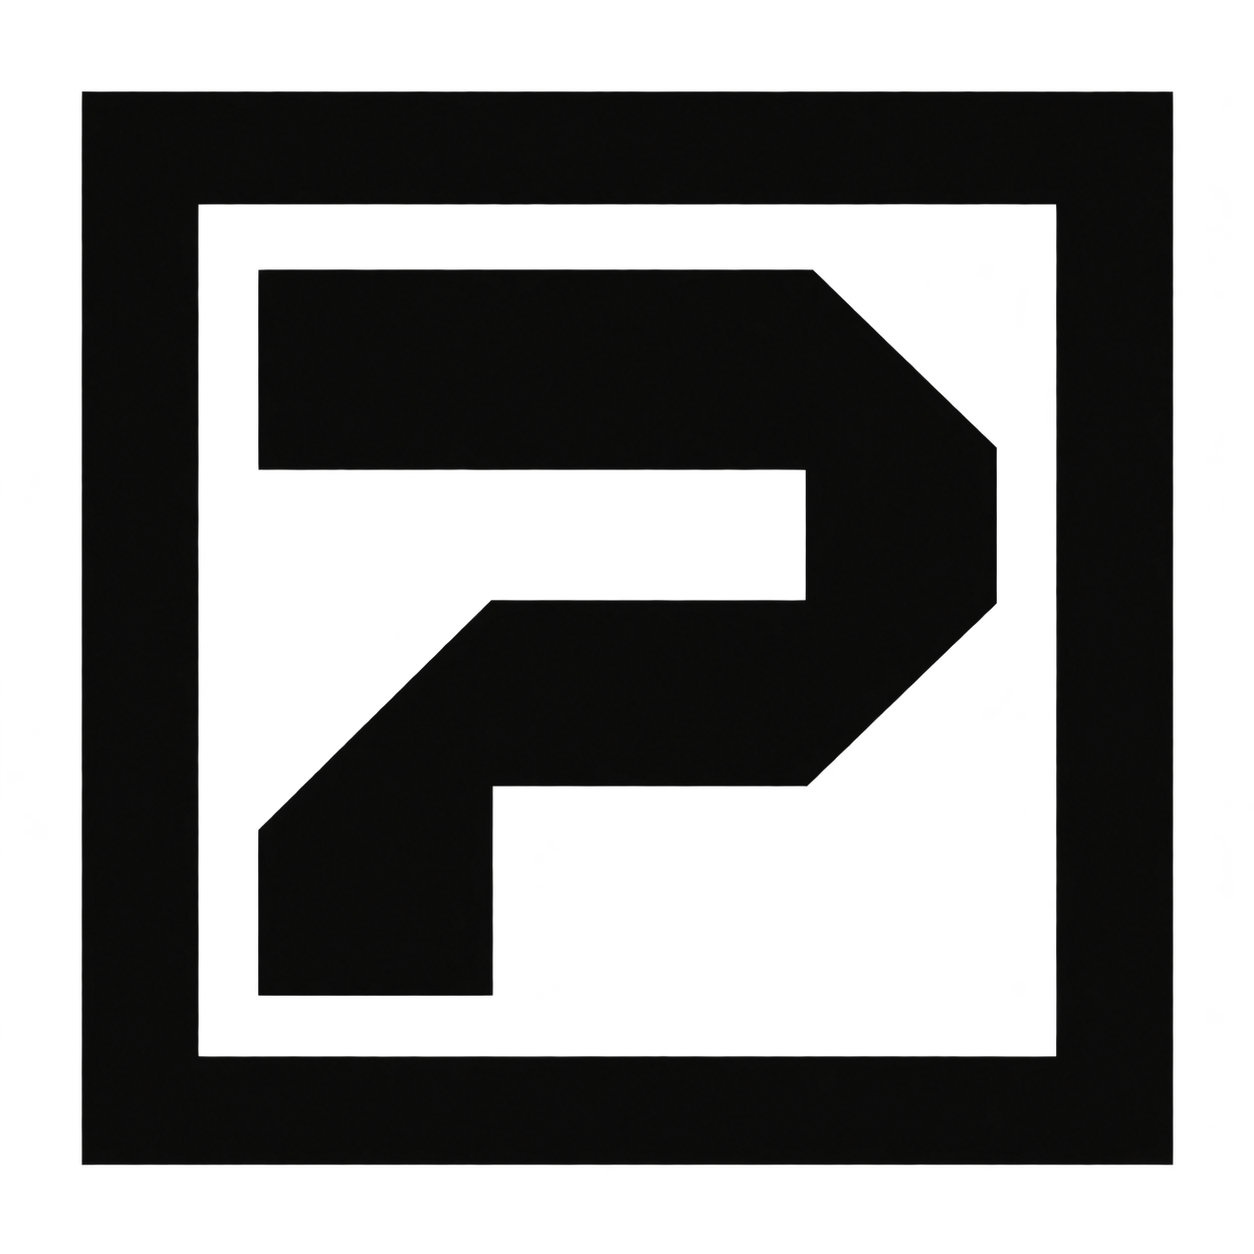
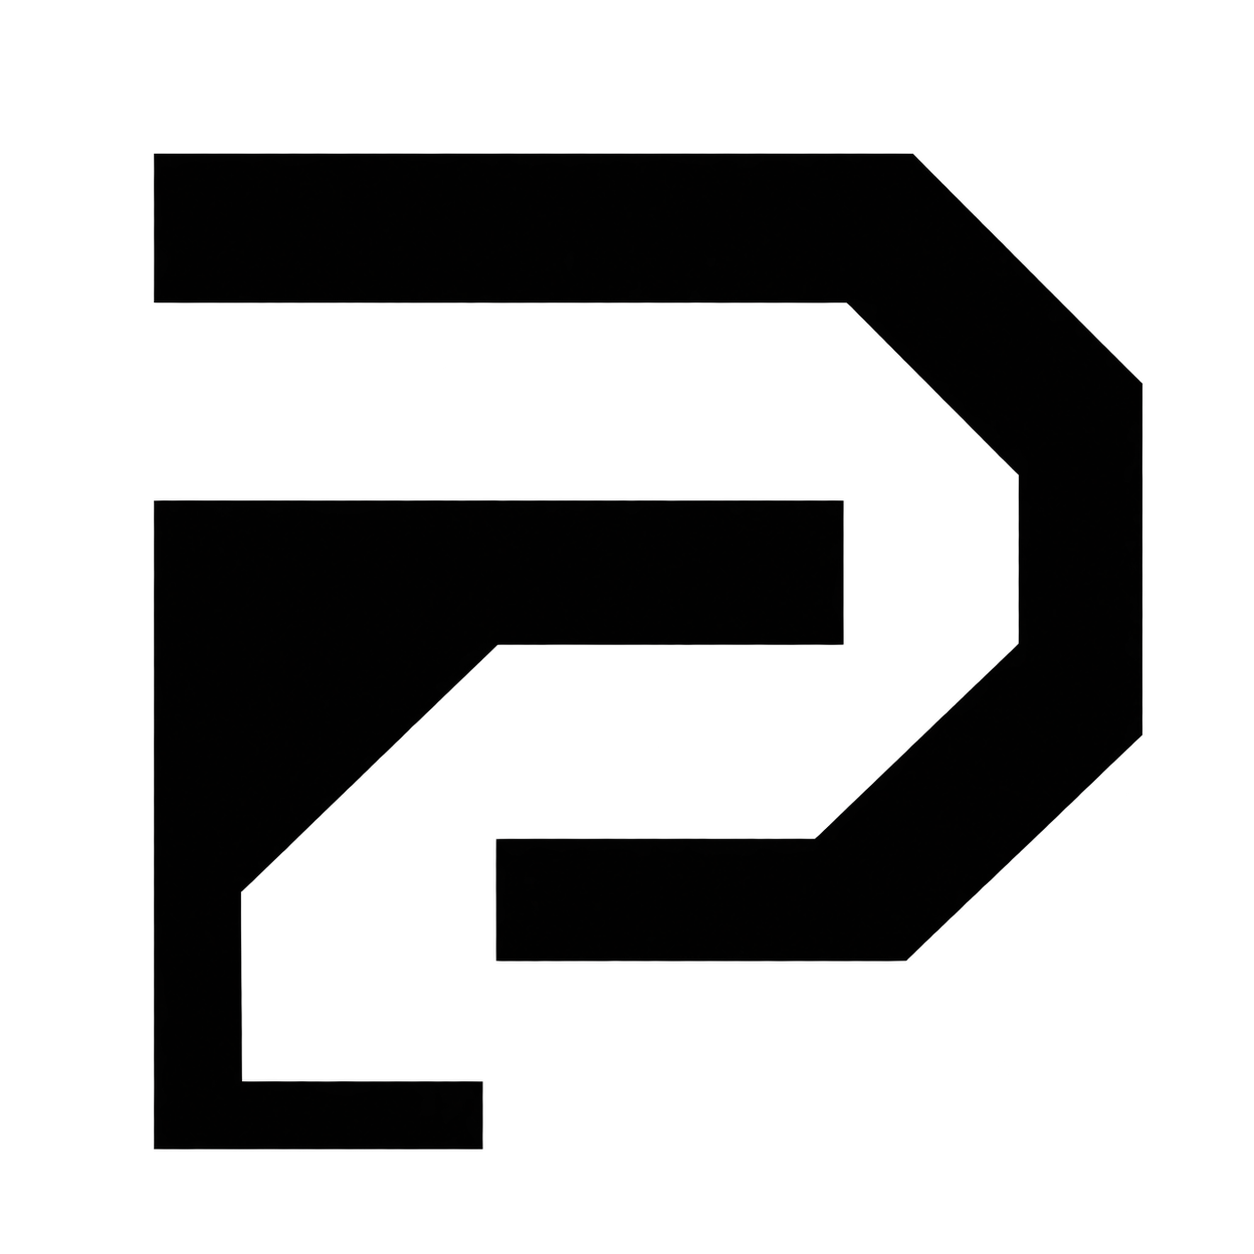
style: remove outer frame from Persona image emblem

diff --git a/docs/design.md b/docs/design.md
@@ -1,3 +1,5 @@
+사용자 최종 변경: 이미지 심볼의 바깥 네모 프레임을 제거하고 안쪽 P만 사용한다.
+
 # 로고 최종 적용 (사용자 요청)
 
 이미지 생성으로 만든 투명 배경 persona-icon.png를 첫 글자 P 대신 사용하고, 뒤에 Pretendard 800의 ersona를 이어 붙인다. 같은 PNG를 파비콘으로 사용한다. 원본 이미지는 수정하지 않고 보존한다. 전체 생성 로고도 persona-generated-logo.png로 보관한다. 앞서 제작한 SVG는 이전 시안이며 기본 UI에서는 사용하지 않는다.
